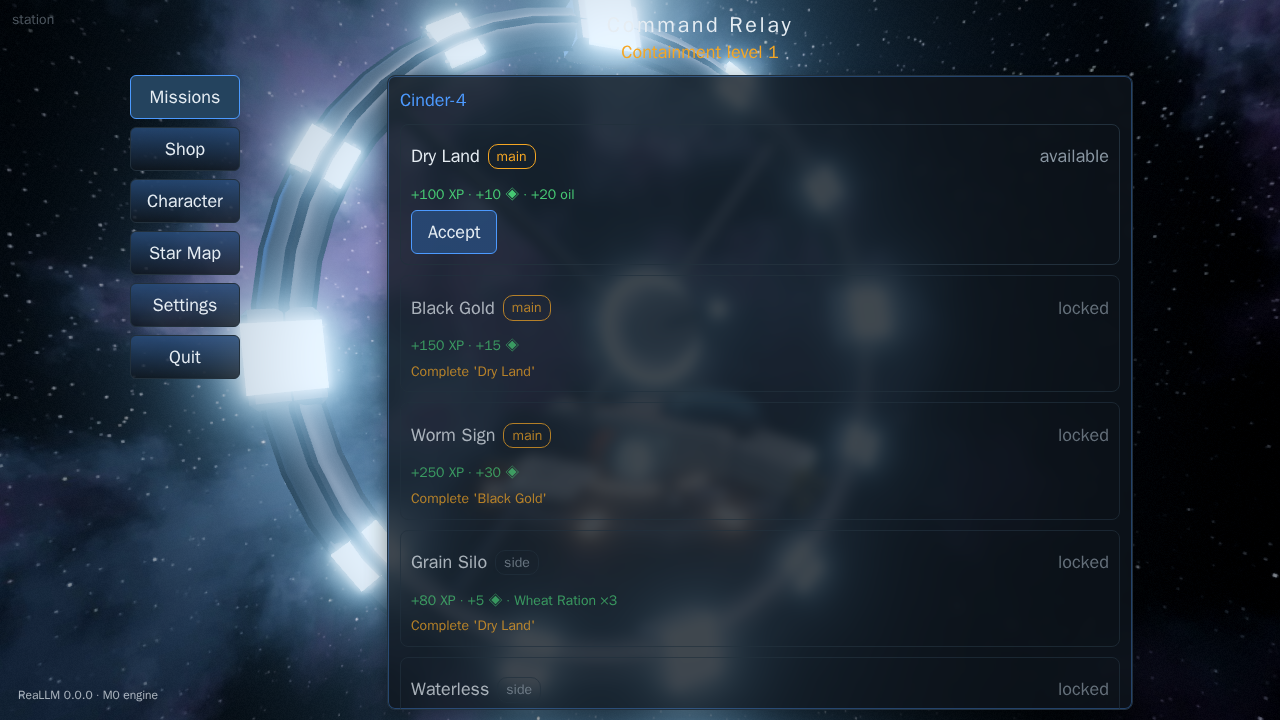
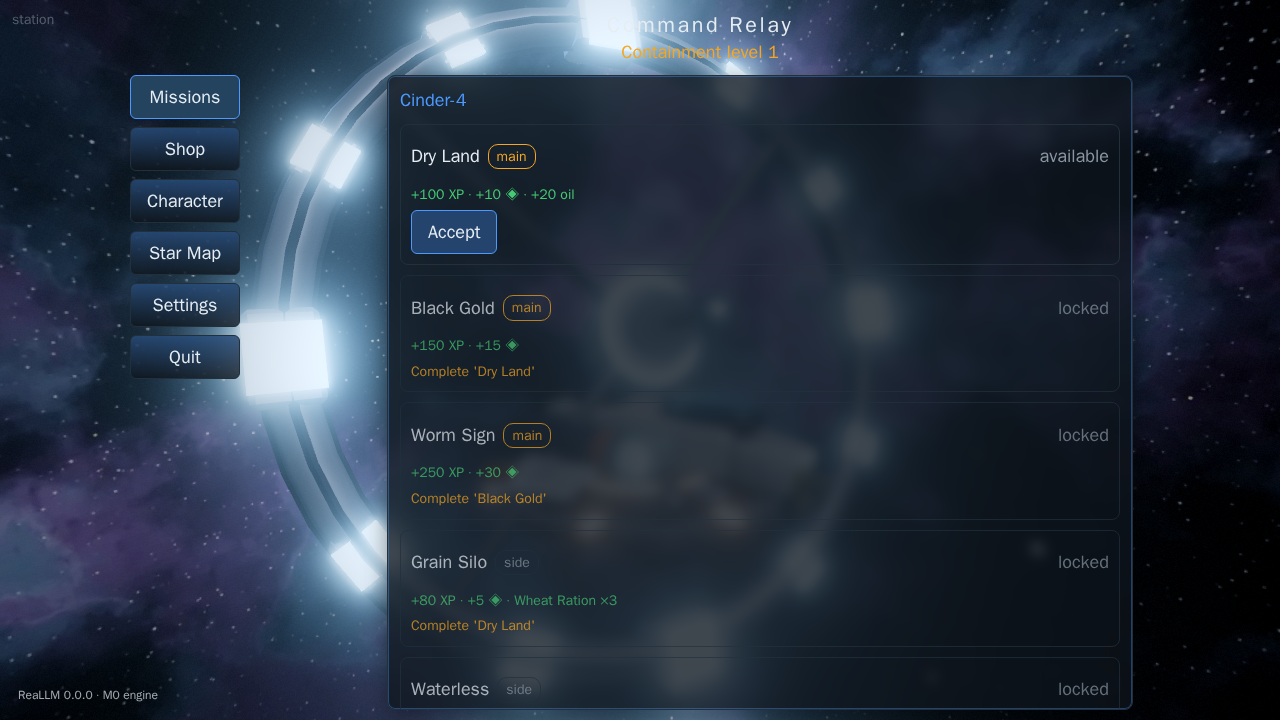
SPEC-020: the station's lights and window stop riding its turntable
Moving the station backdrop into one Group put the key, the rim and the sky
window inside the object onUpdate rotates at 0.12 rad/s, so the lighting swung
and the nebula spun. The three props that are meant to turn now hang off a
`spin` child; the lights and the window stay with the backdrop group. Still one
Group (AC-16), still props=3 (AC-17). Station screenshots re-captured.

diff --git a/src/scenes/StationScene.ts b/src/scenes/StationScene.ts
@@ -38,7 +38,8 @@ const HUB_ENVIRONMENT_INTENSITY = 0.9;
 type StationTab = 'missions' | 'shop' | 'character';
 
 export class StationScene extends UiScene<'station'> {
-  #ring: THREE.Group | null = null;
+  /** The three props that turn together; the lights and the window do not. */
+  #spin: THREE.Group | null = null;
   #economy: Economy | null = null;
   #settings: SettingsPanel | null = null;
   #root: HTMLDivElement | null = null;
@@ -68,7 +69,7 @@ export class StationScene extends UiScene<'station'> {
   }
 
   protected override onUpdate(_dt: number): void {
-    if (this.#ring) this.#ring.rotation.y = this.elapsed * 0.12;
+    if (this.#spin) this.#spin.rotation.y = this.elapsed * 0.12;
   }
 
   // ------------------------------------------------------------------ Three
@@ -83,12 +84,17 @@ export class StationScene extends UiScene<'station'> {
   #buildBackdrop(): void {
     const group = new THREE.Group();
     addHubLights(group);
+    // The three props turn together (AC-26); the lights and the window behind
+    // them are the backdrop's furniture and stay put, so they hang off `group`
+    // and the turning ones off `spin` — still one backdrop `Group` (AC-16).
+    const spin = new THREE.Group();
+    group.add(spin);
     const ring = proceduralRing();
     ring.rotation.x = Math.PI / 2.4;
-    group.add(ring);
+    spin.add(ring);
     const pad = proceduralDock();
     pad.position.y = -1.05;
-    group.add(pad);
+    spin.add(pad);
     this.props = 2;
     // The docked ship (AC-26): the real model when the assets are up, a hull
     // of primitives when they are not — the count stays three either way.
@@ -105,10 +111,10 @@ export class StationScene extends UiScene<'station'> {
     }
     ship.position.set(0, -0.75, 0.2);
     ship.rotation.y = 0.5;
-    group.add(ship);
+    spin.add(ship);
     this.props = 3;
     this.scene.add(group);
-    this.#ring = group;
+    this.#spin = spin;
     this.camera.position.set(0, 0.6, 4.4);
     this.camera.lookAt(0, -0.2, 0);
 
@@ -121,8 +127,8 @@ export class StationScene extends UiScene<'station'> {
     });
     loadHubArt(this.services.assets, () => alive, (art) => {
       if (art.sky !== null) group.add(hubSkyMesh(art.sky));
-      if (art.ring !== null) swapModule(group, ring, art.ring);
-      if (art.dock !== null) swapModule(group, pad, art.dock);
+      if (art.ring !== null) swapModule(spin, ring, art.ring);
+      if (art.dock !== null) swapModule(spin, pad, art.dock);
     });
   }
 
